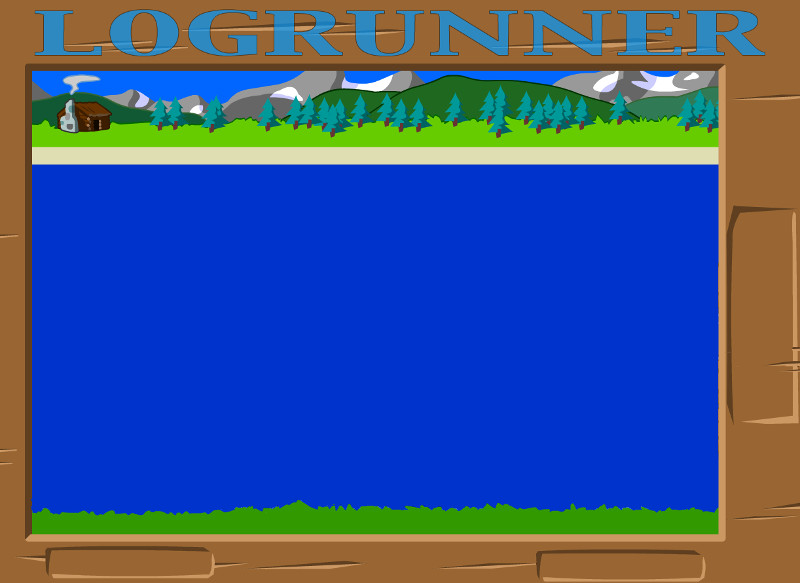
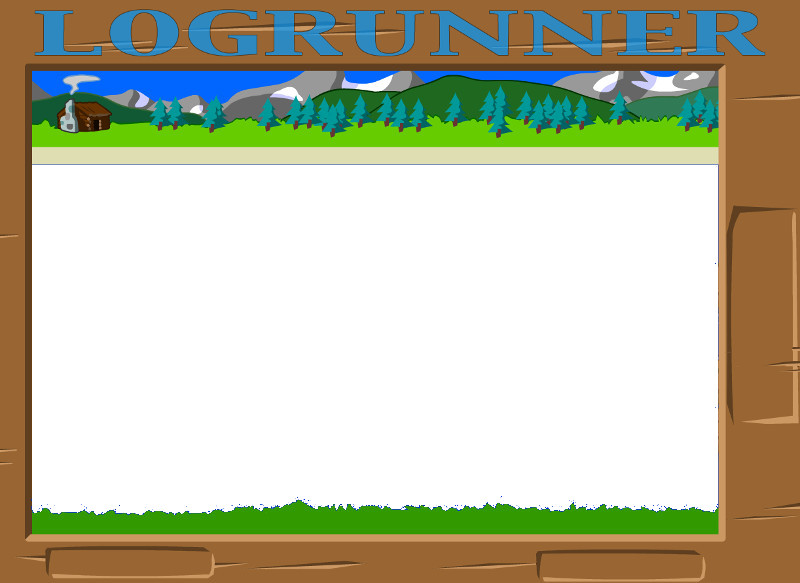
Hero Moving

diff --git a/scripts/start.js b/scripts/start.js
@@ -18,16 +18,16 @@ require.config({
     }
 });
 
-require(['kineticjs', 'objects'],function(Kinetic, obj){
+
+require(['kineticjs', 'objects'], function (Kinetic, obj) {
 
     // Stage and background setup
-    // todo: Fix z indexes so that the trees show behind the border
     var stage = new Kinetic.Stage({
         width: 800,
         height: 600,
         container: 'stage-container'
     });
-    loadBackground('bkground.jpg');
+
     function loadBackground(image) {
         var backgroundImage = new Image();
         var bgrdlayer = new Kinetic.Layer();
@@ -42,12 +42,11 @@ require(['kineticjs', 'objects'],function(Kinetic, obj){
             });
             bgrdlayer.add(levelBackground);
             stage.add(bgrdlayer);
-            bgrdlayer.setZIndex(0);
+            bgrdlayer.setZIndex(1);
         };
 
         backgroundImage.src = 'resources/' + image;
     }
-
 
     //testing (Engine)
 
@@ -62,14 +61,18 @@ require(['kineticjs', 'objects'],function(Kinetic, obj){
         []
     ];
     // layers for our game
+
     var treesLayer = new Kinetic.Layer();
     stage.add(treesLayer);
 
     var heroLayer = new Kinetic.Layer();
     stage.add(heroLayer);
 
+    loadBackground('bkground.png');
+
     // main character create and put on screen
-    var hero = obj.hero(400, 490);
+
+    var hero = obj.hero(400, 480);
     heroLayer.add(hero);
     hero.start();
 
@@ -98,62 +101,105 @@ require(['kineticjs', 'objects'],function(Kinetic, obj){
     trees[6].push(testTreeSeven);
 
     // animation of moving trees
-    function executeFrame(){
-        for (var i = 0; i < trees.length; i++){
-            for (var j = 0; j < trees[i].length; j++){
-                var speed =  (Math.abs(3 - i));
-
+    function executeFrame() {
+        for (var i = 0; i < trees.length; i++) {
+            for (var j = 0; j < trees[i].length; j++) {
+                var speed = (Math.abs(3 - i));
                 trees[i][j].x(trees[i][j].x() - (speed || 2));
             }
         }
+
         clearTrees();
         checkTrees();
-        requestAnimationFrame(executeFrame,document);
-        //setTimeout(executeFrame, 100);
+        requestAnimationFrame(executeFrame, document);
     }
+
     // start of animation
-    requestAnimationFrame(executeFrame,document);
+    requestAnimationFrame(executeFrame, document);
 
     // initial random distance between trees
     var distance = randomGenerator(50, 100);
 
     // function for generating new trees
-    function checkTrees(){
+    function checkTrees() {
         var lastTrees = [];
 
-        for (var i = 0; i < trees.length; i++){
+        for (var i = 0; i < trees.length; i++) {
             var t = trees[i][trees[i].length - 1];
-            if(t){
+            if (t) {
                 lastTrees.push(t)
             }
         }
 
-        for (var j = 0; j < lastTrees.length; j++){
+
+        for (var j = 0; j < lastTrees.length; j++) {
+
             var checker = lastTrees[j].x() + lastTrees[j].width() + distance < 800;
-            if(checker){
+            if (checker) {
                 distance = randomGenerator(50, 100);
-                var newTree = obj.trunk(800, lastTrees[j].y(), randomGenerator(1,3));
+                var newTree = obj.trunk(800, lastTrees[j].y(), randomGenerator(1, 3));
                 treesLayer.add(newTree);
                 newTree.start();
                 trees[j].push(newTree);
             }
         }
     }
+
     // function for clearing trees that are obsolete
     function clearTrees() {
-        for (var i = 0; i < trees.length; i++){
+        for (var i = 0; i < trees.length; i++) {
             var t = trees[i][0];
-            if(t) {
+            if (t) {
                 if (t.x() + t.width() < 0) {
                     trees[i].shift();
                 }
             }
         }
     }
+
     // helper for generating random numbers in range
-    function randomGenerator(min, max){
+    function randomGenerator(min, max) {
         var returnValue = Math.floor((max - min) * Math.random() + min);
         return returnValue;
     }
 
-} );
+    document.addEventListener("keydown", movement);
+
+    function movement(evn) {
+        var step = rowCheck(hero.y() + hero.height());
+        switch (evn.keyCode) {
+            case 38:
+                // todo: move up
+                hero.y(hero.y() -  rowCheck((hero.y() + hero.height()),'up'));
+                break;
+            case 40:
+                // todo: move down
+                hero.y(hero.y() + step);
+                break;
+            case 37:
+                hero.x(hero.x() - 10);
+                // todo: move left
+                break;
+            case 39:
+                // todo: move right
+                hero.x(hero.x() + 10);
+                break;
+        }
+    }
+
+
+    function rowCheck(point, direcetion) {
+        if (point >= 490) {
+            return 50;
+        } else if (point > 170 && point < 220) {
+            if (direcetion == 'up') {
+                return 20;
+            } else {
+                return 50;
+            }
+        } else if (point < 170) {
+            return 20;
+        }
+        return 50;
+    }
+});

diff --git a/index.html b/index.html
@@ -3,6 +3,15 @@
     <head lang="en">
         <meta charset="UTF-8">
         <title>Log Runner</title>
+        <style>
+            body{
+                text-align: center;
+            }
+            #stage-container{
+                background-color: #0033CC;
+                display: inline-block;
+            }
+        </style>
     </head>
     <body>
         <div id="stage-container"></div>

diff --git a/scripts/objects.js b/scripts/objects.js
@@ -121,7 +121,7 @@ define(['kineticjs'],
                     width:50,
                     height:55,
                     image: imageObj,
-                    animation: 'idle',
+                    animation: 'run',
                     animations: {
                         // x, y, width, height (9 frames)
                         idle: [
